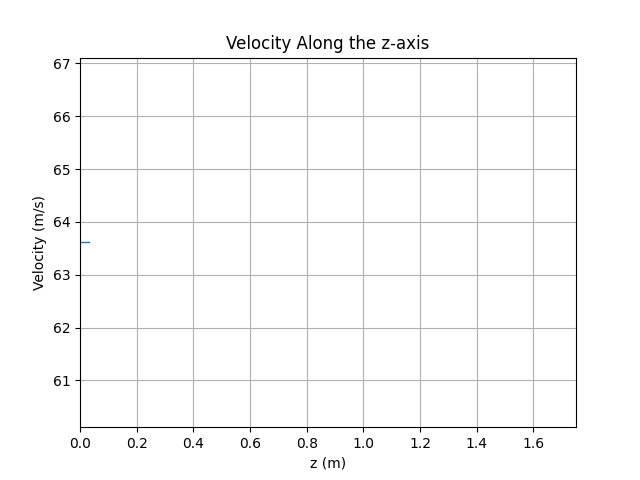
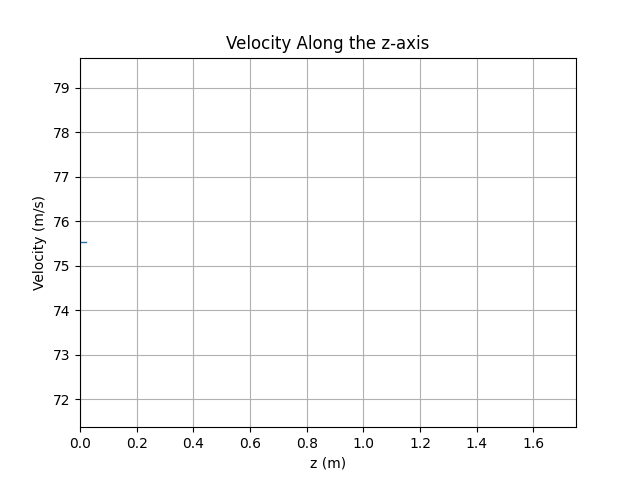
finished caoh figure 8 plots, figure 9 for presentation WIP

diff --git a/zeeman_sisyphus/dependencies.py b/zeeman_sisyphus/dependencies.py
@@ -20,7 +20,7 @@ import seaborn as sns
 # from mpl_toolkits import mplot3d
 from pathlib import Path
 
-n = 1e7
+n = 1e8
 t = 0.0
 sigma_xy = 0.0042 # <-- CaOH, He3
 sigma_vxy = 12.06 # <-- He3 bg #12.0 # <-- CaOH
